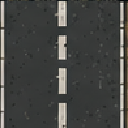
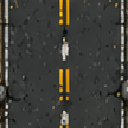
feat: routes asphalte marquées (axe jaune + bords blancs) + autoroute ville↔main city
- road_asphalt.png : tuile asphalte du tileset avec axe jaune pointillé
  et lignes de bord blanches (clairement reconnaissable, vs ancien gris uni)
- _ribbon : n'ajoute plus l'overlay jaune sur les rubans texturés (l'axe
  est déjà dans la texture)
- sector_03_maincity : autoroute large (12 m) asphaltée reliant la route
  principale de la petite ville à la main city, bordée de glissières

diff --git a/public/js/sector_03_maincity.js b/public/js/sector_03_maincity.js
@@ -43,7 +43,7 @@
   function _buildAllRoads(scene, B) {
     const M = B.M;
     const ty = ZS.getTerrainHeight(CX, CZ);
-    B.ribbon(scene, [[0,-5],[-4,-42],[-10,-82],[-16,-112],[-20,-120]], 5.5, M.roadDirt, false);
+    _buildHighway(scene, B);   // autoroute small town ↔ main city
     B.ribbon(scene, [[-85,-185],[-50,-185],[-20,-185],[10,-185],[42,-185]], 7.0, M.road, false);
     B.ribbon(scene, [[-85,-240],[-50,-240],[-20,-240],[10,-240],[42,-240]], 5.5, M.road, false);
     B.ribbon(scene, [[-85,-135],[-50,-135],[-20,-135],[10,-135],[42,-135]], 5.5, M.road, false);
@@ -58,6 +58,43 @@
       for (let k=-3;k<=3;k++) B.box(scene,zx,zz+k*1.3,ty+0.09,5.5,0.01,0.48,zebM);
     const gM = new THREE.MeshLambertMaterial({ color: 0x3a5a28, polygonOffset: true, polygonOffsetFactor:-1, polygonOffsetUnits:-3 });
     B.slab(scene,CX,-240,ty+0.04,2.5,20,gM); B.slab(scene,CX,-135,ty+0.04,2.5,16,gM);
+  }
+
+  // ── Autoroute reliant la petite ville (S02, route principale ~Z0) à la main city ──
+  // Large chaussée asphaltée (texture tileset : axe jaune + bords blancs) bordée de
+  // glissières de sécurité métalliques.
+  function _buildHighway(scene, B) {
+    const M = B.M;
+    const pts = [[2,-2],[-2,-22],[-7,-48],[-12,-75],[-16,-100],[-19,-118],[-20,-122]];
+    const W = 12;
+    B.ribbon(scene, pts, W, M.road, true);
+
+    // Glissières : poteaux + lisse horizontale de part et d'autre de la chaussée.
+    const railMat = M.metal;
+    const hw = W / 2 + 0.5;
+    for (let si = 0; si < pts.length - 1; si++) {
+      const [x0, z0] = pts[si], [x1, z1] = pts[si + 1];
+      const dx = x1 - x0, dz = z1 - z0, len = Math.hypot(dx, dz);
+      if (len < 0.01) continue;
+      const nx = -dz / len, nz = dx / len;
+      const steps = Math.max(1, Math.round(len / 4));
+      const ang = Math.atan2(dx, dz);
+      for (const s of [-1, 1]) {
+        for (let i = 0; i <= steps; i++) {
+          const t = i / steps;
+          const x = x0 + dx * t + nx * hw * s;
+          const z = z0 + dz * t + nz * hw * s;
+          const y = ZS.getTerrainHeight(x, z);
+          B.box(scene, x, z, y + 0.55, 0.14, 0.8, 0.14, railMat);   // poteau
+        }
+        // Lisse continue, orientée le long du tronçon
+        const mx = (x0 + x1) / 2 + nx * hw * s;
+        const mz = (z0 + z1) / 2 + nz * hw * s;
+        const my = ZS.getTerrainHeight(mx, mz);
+        const beam = B.mesh(scene, new THREE.BoxGeometry(0.1, 0.16, len), railMat, mx, my + 0.78, mz);
+        beam.rotation.y = ang;
+      }
+    }
   }
 
   // ─── Helper : planchers intérieurs + escalier intérieur ──────────────────────

diff --git a/public/js/buildings.js b/public/js/buildings.js
@@ -156,7 +156,9 @@
     geo.computeVertexNormals();
     scene.add(new THREE.Mesh(geo, mat));
 
-    if (withLine) {
+    // L'overlay de ligne jaune n'est dessiné que pour les rubans NON texturés :
+    // les textures de route (M.road) portent déjà leur axe central + bords blancs.
+    if (withLine && !mat.map) {
       const lPos = [], lIdx = [];
       let lprev = -1, dashToggle = 0;
       for (let si = 0; si < pts.length - 1; si++) {